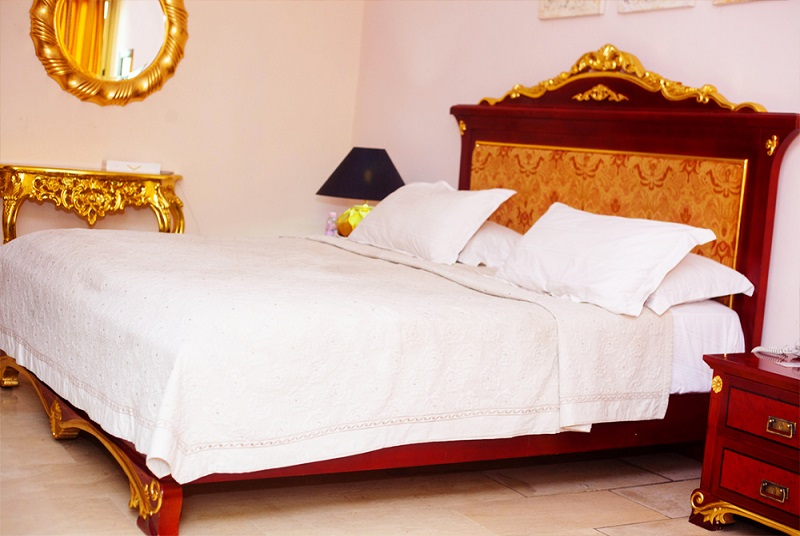
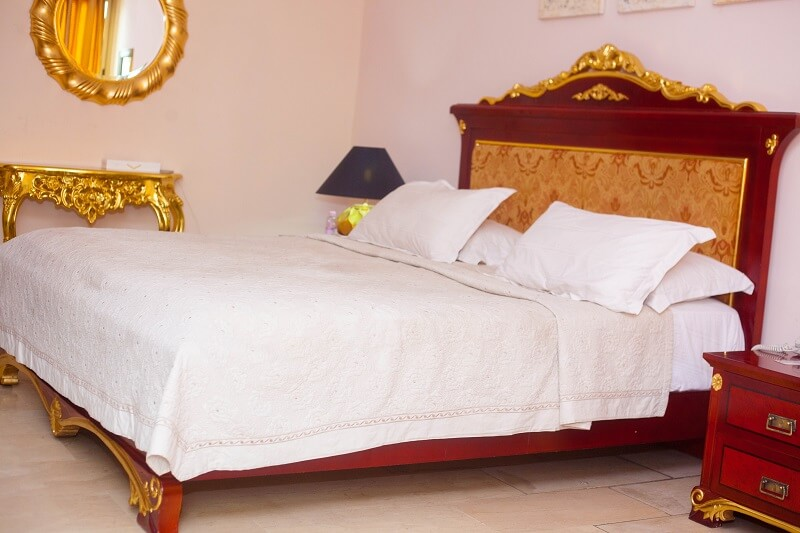
Modification des images
Compression puis remplacement des images

diff --git a/resources/views/main/partials/room_data.blade.php b/resources/views/main/partials/room_data.blade.php
@@ -1,7 +1,36 @@
+<div class="feature-full-1col">
+    <div class="image" style="background-image: url(images/chambres/presidentielle/presid2.jpg);">
+        <div class="descrip text-center">
+            <p>
+                <small>A partir de</small>
+                <span>$250/night</span>
+            </p>
+        </div>
+    </div>
+    <div class="desc" id="presidentielle">
+        <h3>Présidentielle</h3>
 
+        <p  style="text-align: justify;">
+            La suite a tout ce qu’ une chambre présidentielle exige par son design élégant et mobilier raffiné qui sont les seuls mots de notre sublime suite présidentielle, également la plus spacieuse et la plus luxueuse. Dotée d’une chambre spacieuse, D’une superbe baignoire pouvant être transformée en Jacuzzi qui vous met dans une grande relaxation. Elle est dotée aussi d’un grand lit « King » paré de linge en coton et elle abrite également une cuisine classe qui vous permet de faire ce que vous désiriez manger, un salon qui qui vous permet de rester avec vous visiteurs tout en gardant vos intimes personnel, un bureau qui vous permet de travailler dans une grande tranquillité.
+            <h4>Les Services disponibles</h4>    
+        <ul>
+            <li>Connexion Wi-Fi Gratuite avec haut débit.</li>
+            <li>Accès salle de sport</li>
+            <li>Accès à la piscine</li>
+            <li>Un Petit Déjeuner continental</li>
+        </ul>
+        </p>
+
+        <p>
+            <a href="/reservation" class="btn btn-primary btn-luxe-primary">
+                Réserver <i class="ti-angle-right"></i>
+            </a>
+        </p>
+    </div>
+</div>
 
 <div class="feature-full-1col">
-    <div class="image" style="background-image: url(images/chambres/luxe/luxe1.jpg);">
+    <div class="image" style="background-image: url(images/chambres/luxe/luxe2.jpg);">
         <div class="descrip text-center">
             <p>
                 <small>A partir de</small>
@@ -66,7 +95,7 @@
 </div>
 
 <div class="feature-full-1col">
-    <div class="image" style="background-image: url(images/chambres/prestige/prest1.jpg);">
+    <div class="image" style="background-image: url(images/chambres/prestige/prest2.jpg);">
         <div class="descrip text-center">
             <p>
                 <small>A partir de</small>
@@ -98,7 +127,7 @@
 </div>
 
 <div class="feature-full-1col">
-    <div class="image" style="background-image: url(images/chambres/standard/stand1.jpg);">
+    <div class="image" style="background-image: url(images/chambres/standard/stand2.jpg);">
         <div class="descrip text-center">
             <p>
                 <small>A partir de</small>
@@ -123,66 +152,6 @@
         
         <p>
             <a href="/reservation?room=5" class="btn btn-primary btn-luxe-primary">
-                Réserver <i class="ti-angle-right"></i>
-            </a>
-        </p>
-    </div>
-</div>
-<div class="feature-full-1col">
-    <div class="image" style="background-image: url(images/chambres/presidentielle/presid2.jpg);">
-        <div class="descrip text-center">
-            <p>
-                <small>A partir de</small>
-                <span>$250/night</span>
-            </p>
-        </div>
-    </div>
-    <div class="desc" id="presidentielle">
-        <h3>Présidentielle</h3>
-
-        <p  style="text-align: justify;">
-            La suite a tout ce qu’ une chambre présidentielle exige par son design élégant et mobilier raffiné qui sont les seuls mots de notre sublime suite présidentielle, également la plus spacieuse et la plus luxueuse. Dotée d’une chambre spacieuse, D’une superbe baignoire pouvant être transformée en Jacuzzi qui vous met dans une grande relaxation. Elle est dotée aussi d’un grand lit « King » paré de linge en coton et elle abrite également une cuisine classe qui vous permet de faire ce que vous désiriez manger, un salon qui qui vous permet de rester avec vous visiteurs tout en gardant vos intimes personnel, un bureau qui vous permet de travailler dans une grande tranquillité.
-            <h4>Les Services disponibles</h4>    
-        <ul>
-            <li>Connexion Wi-Fi Gratuite avec haut débit.</li>
-            <li>Accès salle de sport</li>
-            <li>Accès à la piscine</li>
-            <li>Un Petit Déjeuner continental</li>
-        </ul>
-        </p>
-
-        <p>
-            <a href="/reservation" class="btn btn-primary btn-luxe-primary">
-                Réserver <i class="ti-angle-right"></i>
-            </a>
-        </p>
-    </div>
-</div>
-<div class="feature-full-1col">
-    <div class="image" style="background-image: url(images/chambres/presidentielle/presid2.jpg);">
-        <div class="descrip text-center">
-            <p>
-                <small>A partir de</small>
-                <span>$250/night</span>
-            </p>
-        </div>
-    </div>
-    <div class="desc" id="presidentielle">
-        <h3>Présidentielle</h3>
-
-        <p  style="text-align: justify;">
-            La suite a tout ce qu’ une chambre présidentielle exige par son design élégant et mobilier raffiné qui sont les seuls mots de notre sublime suite présidentielle, également la plus spacieuse et la plus luxueuse. Dotée d’une chambre spacieuse, D’une superbe baignoire pouvant être transformée en Jacuzzi qui vous met dans une grande relaxation. Elle est dotée aussi d’un grand lit « King » paré de linge en coton et elle abrite également une cuisine classe qui vous permet de faire ce que vous désiriez manger, un salon qui qui vous permet de rester avec vous visiteurs tout en gardant vos intimes personnel, un bureau qui vous permet de travailler dans une grande tranquillité.
-            <h4>Les Services disponibles</h4>    
-        <ul>
-            <li>Connexion Wi-Fi Gratuite avec haut débit.</li>
-            <li>Accès salle de sport</li>
-            <li>Accès à la piscine</li>
-            <li>Un Petit Déjeuner continental</li>
-        </ul>
-        </p>
-
-        <p>
-            <a href="/reservation" class="btn btn-primary btn-luxe-primary">
                 Réserver <i class="ti-angle-right"></i>
             </a>
         </p>

diff --git a/resources/views/admin/reservations/index.blade.php b/resources/views/admin/reservations/index.blade.php
@@ -37,7 +37,7 @@
                         <tr>
                             <td>{{ $reservation->room->code }}</td>
 
-                            <td>{{ optional($reservation->client->present())->fullName }}</td>
+                            <td>{{ optional(optional($reservation->client)->present())->fullName }}</td>
 
                             <td>{{ optional($reservation->present())->dateIn }}</td>
 
